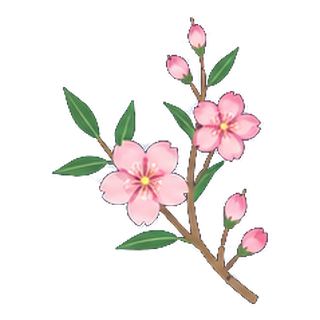
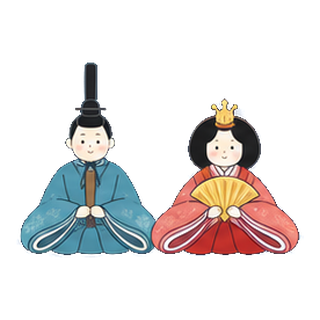
fix: 3月の意匠を桃の花からひな人形に差し替え
差し替え後の画像をもとに、3月だけ切り出し直した。

- 黒い烏帽子や髪が背景と間違われて消えないよう、切り抜きの判定を
  「色の近さ」から「画像の外側からつながっている背景」に変えた
- 季節の言葉を絵に合わせて「ひな人形をかざり、桃の節句を祝う」に変更
- IMG_VER を 2 に上げ、古い画像が残らないようにした

diff --git a/js/calendar.js b/js/calendar.js
@@ -21,12 +21,12 @@
      差し替えたときは IMG_VER の数字を増やしてください。
      ブラウザが古い画像を覚えているのを防げます。
      ============================================================ */
-  var IMG_VER = 1;
+  var IMG_VER = 2;
 
   var MONTHS = [
     { wafu: '睦月', season: '冬', color: '#f0a92e', note: '初日の出と松に、新しい年を迎える' },
     { wafu: '如月', season: '冬', color: '#ee85ab', note: '梅がほころび、春の気配がただよう' },
-    { wafu: '弥生', season: '春', color: '#f08fb0', note: '桃の花が咲き、ひな祭りの季節' },
+    { wafu: '弥生', season: '春', color: '#f08fb0', note: 'ひな人形をかざり、桃の節句を祝う' },
     { wafu: '卯月', season: '春', color: '#f4a9c6', note: '桜が満開になり、新しい年度がはじまる' },
     { wafu: '皐月', season: '春', color: '#3f8fd8', note: '鯉のぼりが泳ぎ、風がさわやかになる' },
     { wafu: '水無月', season: '夏', color: '#7f8fdc', note: '梅雨のあじさいが、雨に色を深める' },

diff --git a/index.html b/index.html
@@ -11,7 +11,7 @@
 <link rel="preconnect" href="https://fonts.googleapis.com">
 <link rel="preconnect" href="https://fonts.gstatic.com" crossorigin>
 <link href="https://fonts.googleapis.com/css2?family=Inter:wght@200;300;400;500;600&family=Noto+Sans+JP:wght@400;500;700&display=swap" rel="stylesheet">
-<link rel="stylesheet" href="css/style.css?v=13">
+<link rel="stylesheet" href="css/style.css?v=14">
 </head>
 <body class="period-night wx-clear">
 
@@ -374,8 +374,8 @@
   </symbol>
 </svg>
 
-<script src="js/app.js?v=13"></script>
-<script src="js/tools.js?v=13"></script>
-<script src="js/calendar.js?v=13"></script>
+<script src="js/app.js?v=14"></script>
+<script src="js/tools.js?v=14"></script>
+<script src="js/calendar.js?v=14"></script>
 </body>
 </html>

diff --git a/README.md b/README.md
@@ -234,7 +234,7 @@ git push
 | --- | --- | --- |
 | 1月 | 睦月 | 初日の出と松 |
 | 2月 | 如月 | 梅 |
-| 3月 | 弥生 | 桃の花 |
+| 3月 | 弥生 | ひな人形 |
 | 4月 | 卯月 | 桜 |
 | 5月 | 皐月 | 鯉のぼり |
 | 6月 | 水無月 | あじさい |
